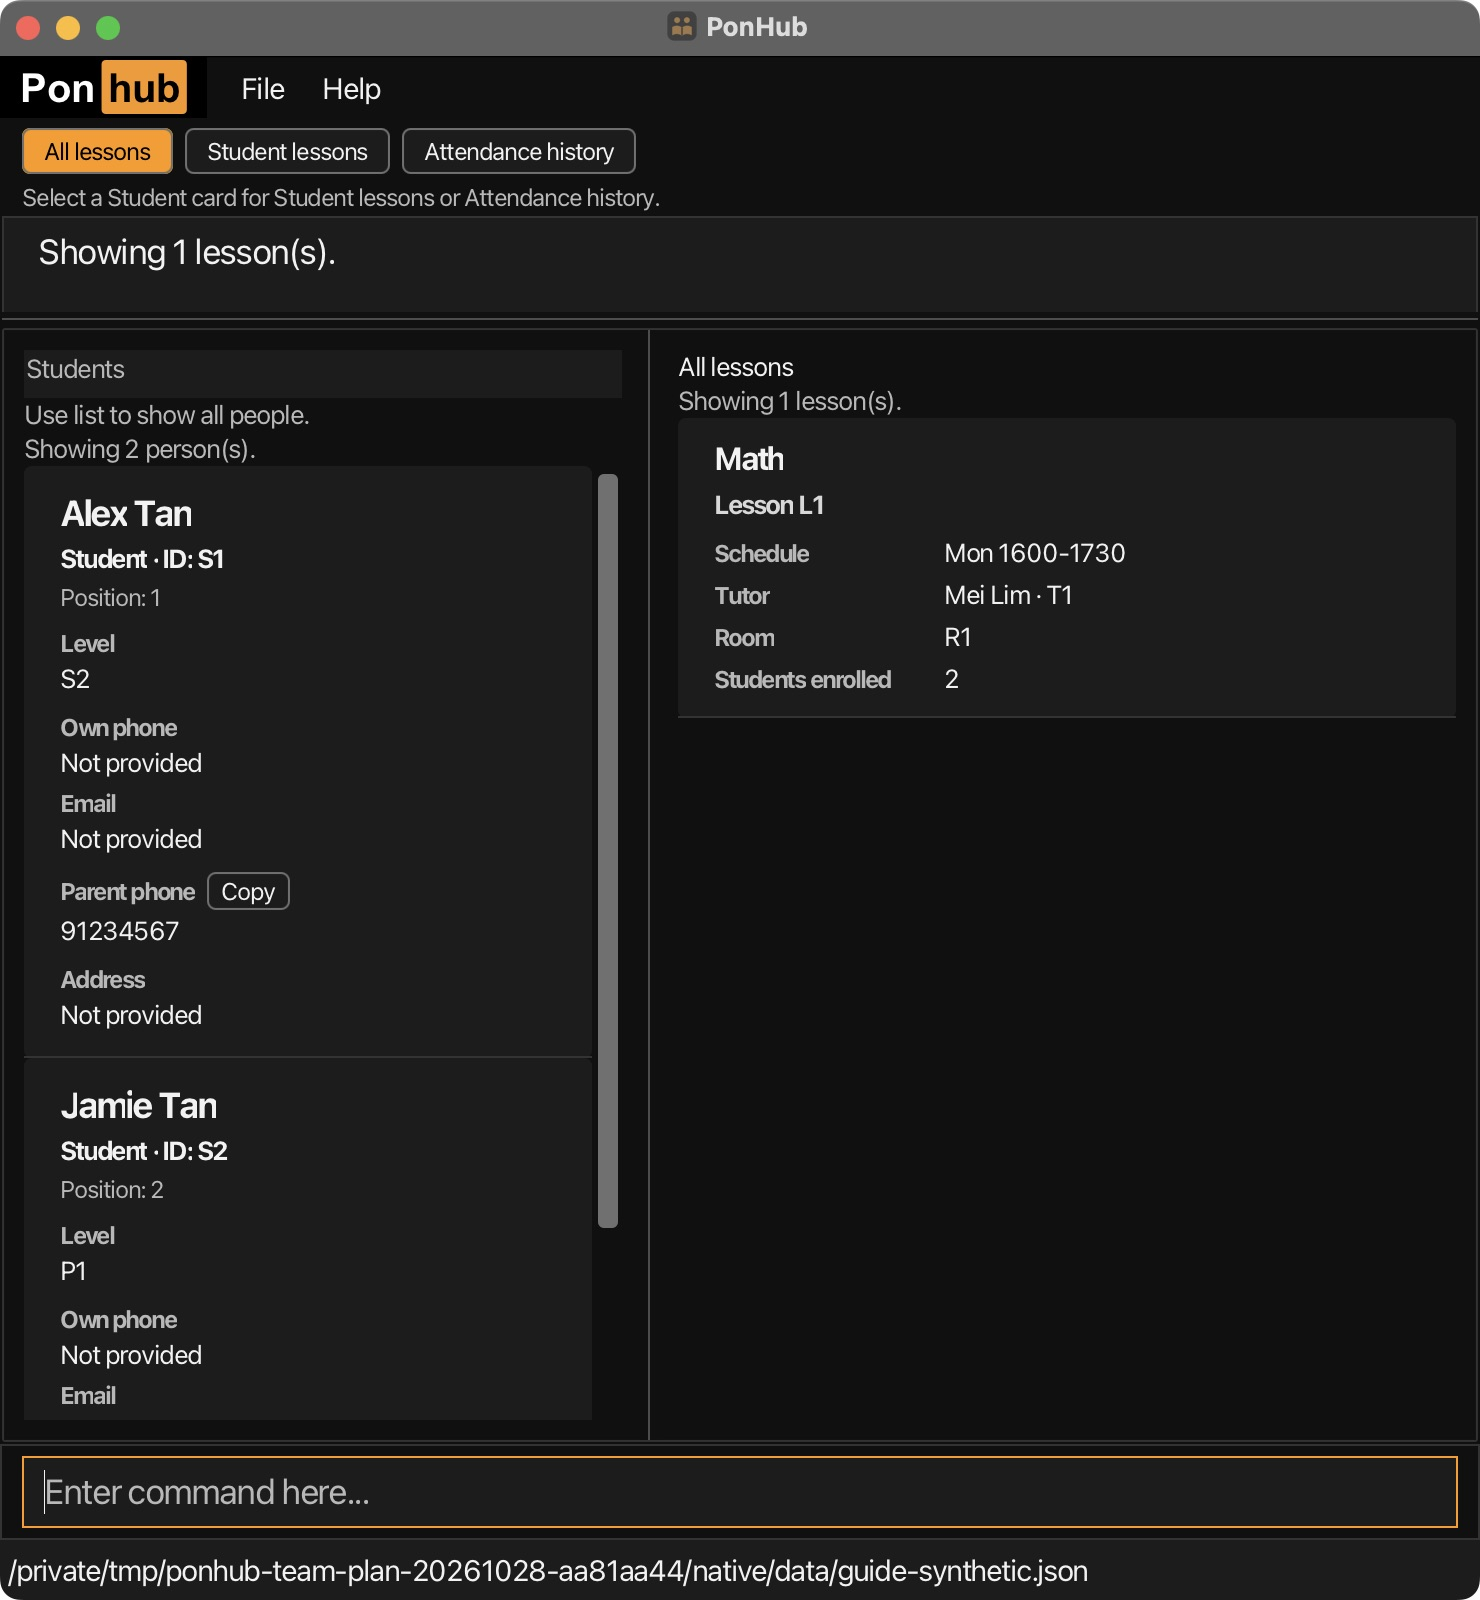
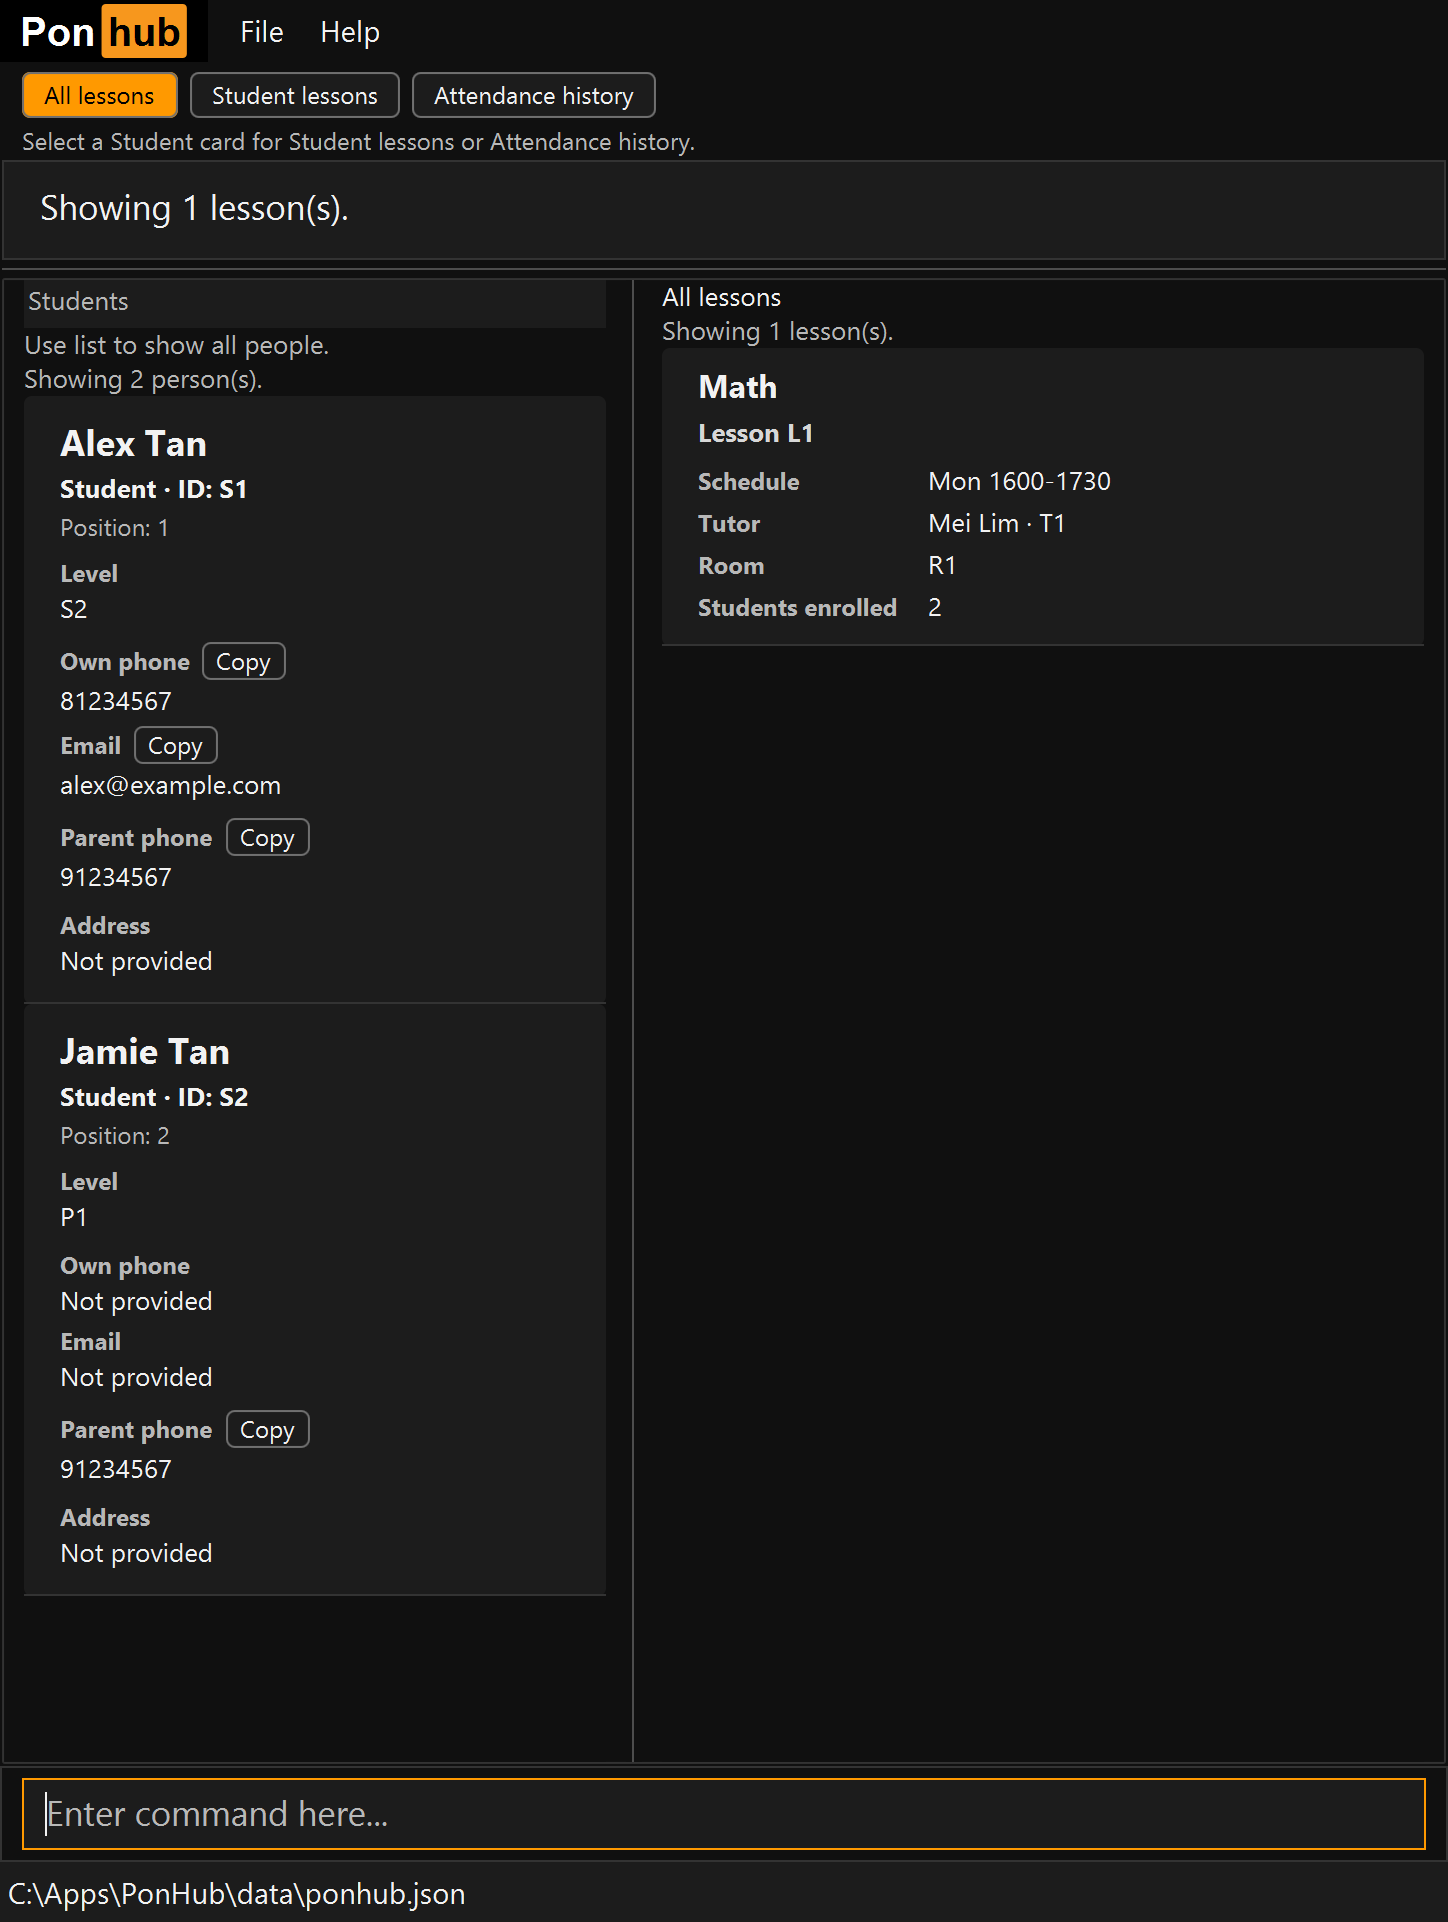
Correct guide wording and refresh UI captures

diff --git a/docs/UserGuide.md b/docs/UserGuide.md
@@ -260,7 +260,7 @@ Use this table as a quick lookup. Click any action to read its full rules and ex
 
 **Notes:**
 * See [Positions and stable IDs](#positions-and-stable-ids) for how to choose `INDEX`, `STUDENT_INDEX`, and `lid/LESSON_ID`.
-* If PonHub starts in a [protected session](#if-ponhub-shows-data-file-protected), only `help`, `list`, and `exit` are available. Inherited AB3 commands such as `clear` and `find` are not used in PonHub.
+* If PonHub starts in a [protected session](#if-ponhub-shows-data-file-protected), only `help`, `list`, and `exit` are available. Commands such as `clear` and `find` are not supported.
 
 --------------------------------------------------------------------------------------------------------------------
 
@@ -364,7 +364,7 @@ Supply at least one field to change. Omitted fields stay as they are. All values
 
 **Notes:**
 * **Clearing optional fields:** Supply an empty `e/` or `a/` to clear an email or address, or an empty `p/` to clear a student's own phone. Required fields (names, student levels, student parent phones, and tutor or parent phones) cannot be cleared, and a person's role and stable ID cannot be changed.
-* **Duplicates and no-op edits:** If your edit would match another person's role, normalized name, and identifying phone (`pp/` for students, `p/` for tutors and parents), the error message names the fields you need to change (`n/` or the identifying phone). An edit that changes nothing after space normalization (such as `edit 1 n/Alex  Tan`) reports no change and does not save, whereas changing capitalization (such as `edit 1 n/ALEX TAN`) saves the new display casing.
+* **Duplicates and no-op edits:** If your edit would match another person's role, normalized name, and identifying phone (`pp/` for students, `p/` for tutors and parents), the error message names the fields you need to change (`n/` or the identifying phone). An edit that changes nothing after space normalization (for example, `edit 1 n/Alex  Tan` with two spaces between `Alex` and `Tan`) reports no change and does not save, whereas changing capitalization (such as `edit 1 n/ALEX TAN`) saves the new display casing.
 * **Linked records:** Renaming a tutor automatically updates the tutor name shown on their lessons. Changing a student's `pp/` or a parent's `p/` recomputes parent–student links by exact phone match without altering anyone else's phone number; if any existing parent–student link is broken, the confirmation message lists the affected Parent–Student ID pairs.
 <!-- @@author -->
 
@@ -956,7 +956,7 @@ Close PonHub first, then copy your selected operational data file (`data/ponhub.
 
 ### 12.2 If PonHub shows "Data file protected"
 
-If your selected data file is unreadable, corrupted, modified with invalid JSON or broken links, from an unsupported version, or an unversioned legacy file, PonHub starts in a **protected session** and shows a **Data file protected** warning.
+If your selected data file is unreadable, corrupted, modified with invalid JSON or broken links, from an unsupported version, or an unversioned legacy file, PonHub starts in a **protected session** and opens a **Data file protected** warning dialog. Dismissing the dialog does not unlock the session.
 
 * **Your data has not been deleted:** The empty people and lesson lists on screen only mean PonHub refused to load or overwrite the damaged file.
 * **Writes are locked:** Only `help`, `list`, and `exit` work in a protected session, so the original file on disk stays untouched.
@@ -1038,7 +1038,7 @@ Keep a backup of the original folder until you have opened PonHub on the new com
 **A:** Supply the tutor's full name with `tu/TUTOR_NAME`, and add `tp/TUTOR_PHONE` if two tutors share the same name; see the tutor lookup rules in [Creating a lesson: `addlesson`](#creating-a-lesson-addlesson).
 
 **Q: Why is my people list empty after starting PonHub?**<br>
-**A:** On a brand-new installation (or when `--data` points to a new path), PonHub starts with an empty dataset until your first change is saved. If you already had data and see a **Data file protected** banner at the top, your saved file was not deleted—PonHub locked writes to protect the file; follow [If PonHub shows "Data file protected"](#if-ponhub-shows-data-file-protected).
+**A:** On a brand-new installation (or when `--data` points to a new path), PonHub starts with an empty dataset until your first change is saved. If you already had data and saw a **Data file protected** warning dialog at startup, your saved file was not deleted—PonHub locked writes to protect the file; follow [If PonHub shows "Data file protected"](#if-ponhub-shows-data-file-protected).
 
 **Q: If a student has no attendance marked for a lesson date, are they counted as absent?**<br>
 **A:** No. A date with no attendance entry is **unrecorded**, never `absent`. Only dates explicitly marked with `s/absent` count as absences.
@@ -1087,7 +1087,7 @@ The {% include command-list.html key="record-validation" label="commands that cr
 | **Education level** | `l/` | `P1`–`P6`, `S1`–`S5`, `JC1`, or `JC2` (case-insensitive, displayed in uppercase). Students only. |
 | **Subject** | `s/` | 1–50 characters using Unicode letters or digits, with single spaces or single hyphens between non-empty parts (e.g., `Math`, `Primary 5 Math`, `A-Math`). No leading, trailing, or repeated hyphens. |
 | **Room** | `rm/` | 1–10 characters in total (including hyphens), using letters or digits with optional single hyphens between parts (e.g., `R1`, `B-01`). Stored and displayed in uppercase, so `b-01` and `B-01` refer to the same room. No spaces. |
-| **Weekday** | `d/` | `Mon`, `Tue`, `Wed`, `Thu`, `Fri`, `Sat`, or `Sun` (case-insensitive in search). |
+| **Weekday** | `d/` | `Mon`, `Tue`, `Wed`, `Thu`, `Fri`, `Sat`, or `Sun` (case-insensitive). |
 | **Start / End time** | `st/`, `et/`, `from/`, `to/` | 4-digit, 24-hour `HHMM` time (`0000`–`2359`), with start earlier than end on the same day. |
 | **Attendance date** | `d/` | Real calendar date in `YYYY-MM-DD` format (years `0001`–`9999`). For `mark`, `unmark`, and `showlesson`, the date must fall on the lesson's weekday. |
 | **Attendance status** | `s/` | `present` or `absent` (case-insensitive). |

diff --git a/docs/images/README.md b/docs/images/README.md
@@ -8,30 +8,55 @@ title: Screenshot sources and credits
 The images illustrate the development interface using fictitious records.
 
 Vincent Lin (`gugrusaurus`) created the original guide media. Zhu Zhi Yu
-(`ultramanarm`) refreshes the overview, navigation and attendance-history images. Both use OpenAI Codex
-assistance. These are native macOS application captures: only rectangular cropping
-and image encoding are applied, without redrawing, compositing or AI-generated UI
-content. The raw windows measure 1480×1600 pixels.
-Crop bounds below are `(left, top, right, bottom)` in those pixels; no resizing was
-applied. The PNG images preserve the decoded capture pixels. The attendance-detail JPEG
-uses quality 95 with no chroma subsampling.
+(`ultramanarm`) later refreshed the overview, navigation and attendance-history images.
+Both used OpenAI Codex assistance. Their earlier feature and media authorship is retained.
+
+### Current overview, navigation and attendance details
+
+Vincent recaptured these three images on 2 November 2026 with OpenAI Codex assistance,
+using the unchanged application at source
+[`399faedefe40978fcdfedce92bcea9d1ed53405a`](https://github.com/AY2627S1-CS2103T-F13-3/tp/tree/399faedefe40978fcdfedce92bcea9d1ed53405a).
+The local `ponhub.jar` SHA-256 is
[1 lines of base64/hex data omitted]
+
+These are JavaFX scene captures from the packaged application on Windows amd64 with
+Oracle Java 25.0.4.1. A temporary capture agent submits commands through the real command
+box and snapshots the production scene root at 2× resolution. The captures exclude the
+operating-system title bar. No production source, UI text, colours or layout styles were
+modified. No UI redrawing, compositing or AI-generated image content was used.
+
+The window is 740×1000 logical pixels; each complete scene capture is 1448×1922 pixels.
+Only rectangular cropping and image encoding are applied after capture. Crop bounds below
+are `(left, top, right, bottom)` in capture pixels. The two PNG files preserve the captured
+pixels exactly; the detail JPEG uses quality 95 with no chroma subsampling.
 
 | Image | Pixels | Crop bounds | Illustration |
 | --- | --- | --- | --- |
-| [Ui.png](Ui.png) | 1480×1600 | `(0, 0, 1480, 1600)` | Two Students sharing one Lesson. |
-| [LessonBoardNavigation.png](LessonBoardNavigation.png) | 1480×1600 | `(0, 0, 1480, 1600)` | Student lessons beside an independent people filter. |
-| [AttendanceDetails.jpg](AttendanceDetails.jpg) | 816×724 | `(662, 340, 1478, 1064)` | Alex present and Jamie absent in the current roster. |
-| [AttendanceHistory.png](AttendanceHistory.png) | 816×340 | `(662, 340, 1478, 680)` | Jamie's retained absence, showing the current enrolment-status wording. |
+| [Ui.png](Ui.png) | 1448×1922 | `(0, 0, 1448, 1922)` | Alex and Jamie share L1; the people panel shows Students. |
+| [LessonBoardNavigation.png](LessonBoardNavigation.png) | 1448×1922 | `(0, 0, 1448, 1922)` | Alex's current lessons remain selected while the people panel shows Tutors. |
+| [AttendanceDetails.jpg](AttendanceDetails.jpg) | 816×760 | `(632, 276, 1448, 1036)` | Current Lesson information, Alex present and Jamie absent on 5 October 2026. |
 
-Overview/navigation captures include the native title bar and persistent people heading.
-Attendance crops retain the relevant heading and results so their text remains readable in the guide. The attendance
-detail image shows source
+The fictitious fixture contains Tutor T1 (Mei Lim), Students S1/S2 (Alex/Jamie Tan),
+and Monday lesson L1 (Math, 1600–1730, R1), with both Students enrolled. The dated records
+mark S1 present and S2 absent on `2026-10-05`. The application uses
+`C:\Apps\PonHub\data\ponhub.json`.
+
+The overview follows `list r/student` and `lessons`. Navigation follows `lessons 1` and
+`list r/tutor`. Details follow `list r/student` and `showlesson lid/L1 d/2026-10-05`.
+All capture commands are read-only; the operational file bytes were checked unchanged.
+
+### Retained attendance-history image
+
+[AttendanceHistory.png](AttendanceHistory.png) remains Zhu Zhi Yu's native macOS crop:
+816×340 pixels, cropped from `(662, 340, 1478, 680)` in a 1480×1600 capture.
+It uses the [attendance-history card](https://github.com/ultramanarm/tp/blob/545-clarify-attendance-enrolment-status/src/main/resources/view/AttendanceHistoryCard.fxml)
+and a fictitious fixture with S2 outside L1's current roster while the 5 October 2026
+absence remains recorded. Its capture method and feature credit are unchanged.
+
+The previous overview/navigation captures used source
+[`aa81aa445276366cd1baafc1b7cbb09b10cbcf01`](https://github.com/AY2627S1-CS2103T-F13-3/tp/tree/aa81aa445276366cd1baafc1b7cbb09b10cbcf01);
+the previous detail capture used
 [`b22d81569b96ba66b258c94a9ca2b5a7658cdeaa`](https://github.com/AY2627S1-CS2103T-F13-3/tp/tree/b22d81569b96ba66b258c94a9ca2b5a7658cdeaa).
-The history crop uses the current [attendance-history card](https://github.com/ultramanarm/tp/blob/545-clarify-attendance-enrolment-status/src/main/resources/view/AttendanceHistoryCard.fxml)
-and a fictitious fixture with S2 outside L1's current roster while its 5 October 2026 absence remains recorded.
-Overview and navigation show source
-[`aa81aa445276366cd1baafc1b7cbb09b10cbcf01`](https://github.com/AY2627S1-CS2103T-F13-3/tp/tree/aa81aa445276366cd1baafc1b7cbb09b10cbcf01)
-with the persistent Student heading and reset hint. They may differ from public v1.4.
 
 ## Other project media
 

diff --git a/docs/DeveloperGuide.md b/docs/DeveloperGuide.md
@@ -528,7 +528,7 @@ edit INDEX [n/NAME] [p/PHONE] [e/EMAIL] [a/ADDRESS] [l/LEVEL] [pp/PARENT_PHONE]
 
 * **Keep, set, or clear fields:** `PersonEditInput` models each field as `Field.keep()`, `Field.set(value)`, or `Field.clear()`. At least one prefix must be supplied. Omitted prefixes keep their existing value. Supplying an empty value clears optional fields (`e/`, `a/`, and a student's own `p/`), but is rejected for required fields (`n/`, `l/`, `pp/`, and a tutor's or parent's `p/`) or student-only fields (`l/`, `pp/`) on a tutor or parent.
 * **Validation and no-op detection:** `PersonEditCandidate.prepare(source, targetId, input)` constructs the replacement `PersonRecord` and calls `PonHubData.replacePerson` on a staged copy, checking duplicate identity against all other people (using sigma-folded normalized keys whenever the business key changes).
-  * If every stored field (including display case) matches the existing record—for example, `edit 1 n/Alex  Tan` when the stored name is `Alex Tan`—the candidate is marked unchanged (`isChanged() == false`) and skips saving.
+  * If every stored field (including display case) matches the existing record—for example, `edit 1 n/Alex  Tan` with two spaces between `Alex` and `Tan`, when the stored name is `Alex Tan`—the candidate is marked unchanged (`isChanged() == false`) and skips saving.
   * Changing display case (`edit 1 n/ALEX TAN`) is a real change and is saved.
 * **Parent–student link notifications:** Changing a `Parent`'s own phone or a `Student`'s `parentPhone` updates derived parent–student links automatically without modifying any other person's record. `CanonicalEditCommand` compares the linked `(parentId, studentId)` `PersonId` pairs before and after the edit and appends a warning to the success message listing any links that were disconnected.
 
@@ -1596,7 +1596,7 @@ Using the baseline fixture with a Parent added (`add r/parent n/Pat Tan p/912345
    edit 1 n/ALEX TAN
    ```
 
-   *Expected:* The first edit updates Alex (`S1`) to level `P2` and clears optional own phone, email, and address while preserving `S1` and the Student filter. `edit 1 n/Alex  Tan` normalizes to `Alex Tan` and reports no change (no operational save). `edit 1 n/ALEX TAN` updates the displayed uppercase spelling and saves.
+   *Expected:* The first edit updates Alex (`S1`) to level `P2` and clears optional own phone, email, and address while preserving `S1` and the Student filter. The edit with two spaces between `Alex` and `Tan` normalizes to `Alex Tan` and reports no change (no operational save). `edit 1 n/ALEX TAN` updates the displayed uppercase spelling and saves.
 
 2. **Parent–student phone link warnings and tutor rename propagation:**
    * Run `search c/parent sn/ALEX`, then edit Pat Tan's phone (`list r/parent` → `edit 1 p/99998888`). Confirm the success message lists the disconnected `(P1, S1)` and `(P1, S2)` links while leaving the students' `parentPhone` values (`91234567`) untouched.

diff --git a/docs/index.md b/docs/index.md
@@ -9,7 +9,7 @@ title: PonHub
 PonHub helps tuition centre administrators manage students, tutors, parents, shared recurring lessons and
 dated attendance through a keyboard-focused desktop interface.
 
-![Student lessons active beside a filtered Student list, with the bottom command box](images/LessonBoardNavigation.png)
+![Student lessons active beside a filtered Tutor list, with the bottom command box](images/LessonBoardNavigation.png)
 
 *[Screenshot sources and credits](images/README.html).*
 

diff --git a/README.md b/README.md
@@ -5,7 +5,7 @@
 PonHub helps tuition centre administrators manage students, tutors, parents, shared recurring lessons and
 dated attendance through a keyboard-focused desktop interface.
 
-![Student lessons active beside a filtered Student list, with the bottom command box](docs/images/LessonBoardNavigation.png)
+![Student lessons active beside a filtered Tutor list, with the bottom command box](docs/images/LessonBoardNavigation.png)
 
 *[Screenshot sources and credits](docs/images/README.md).*
 
